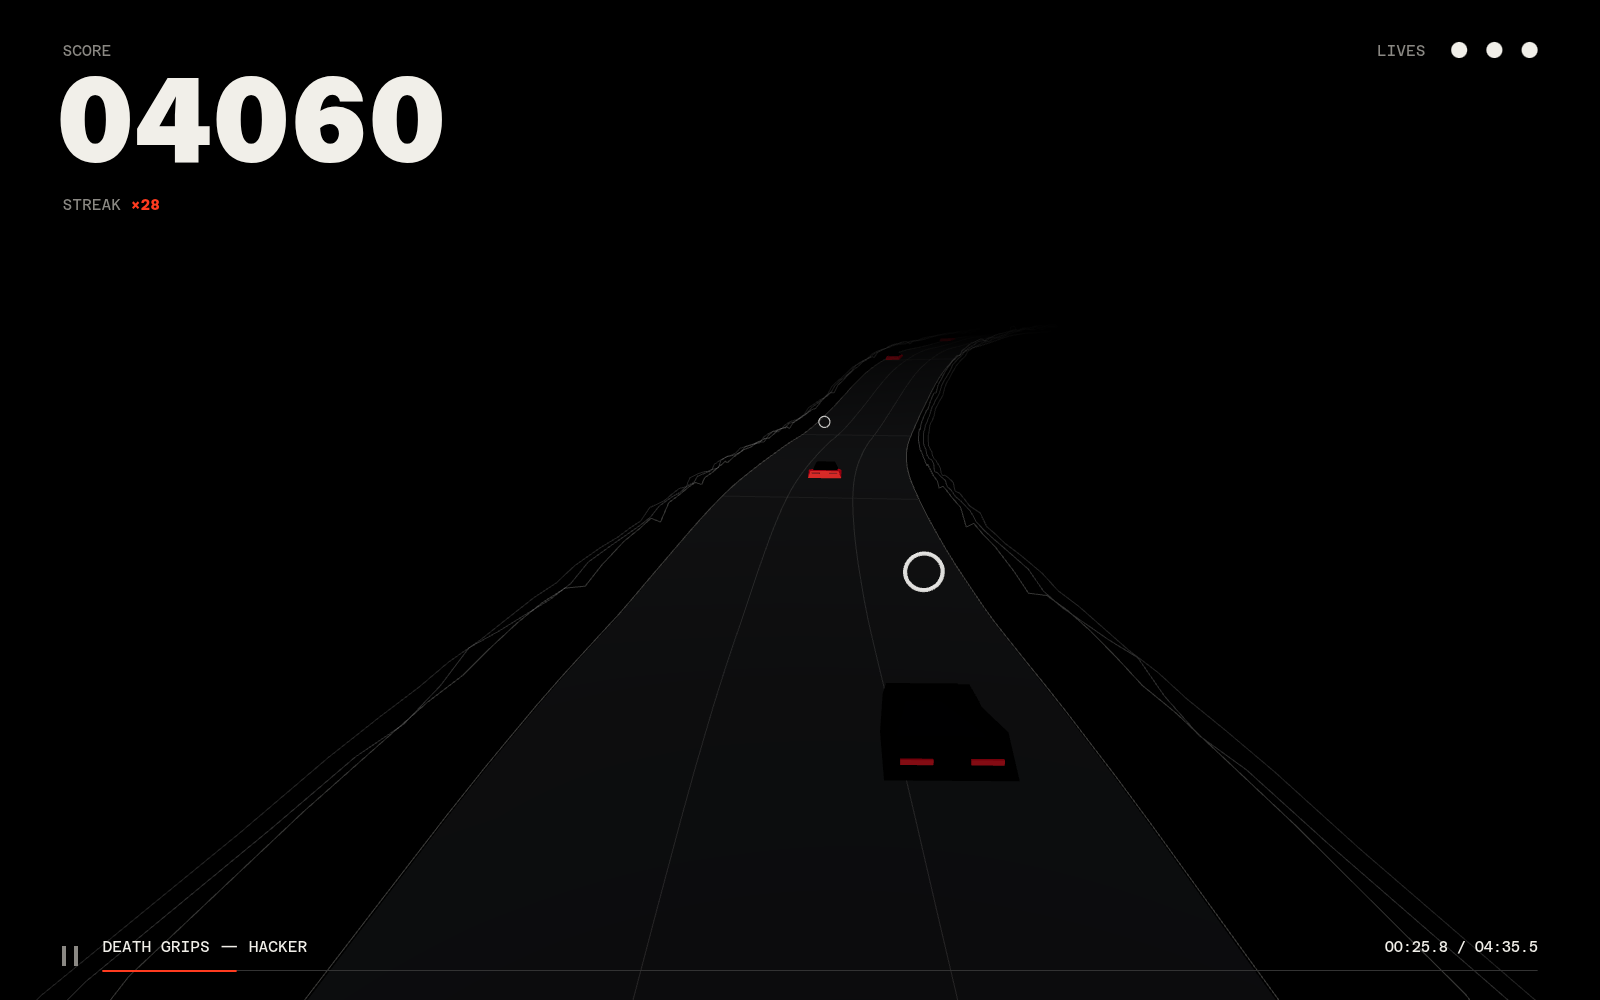
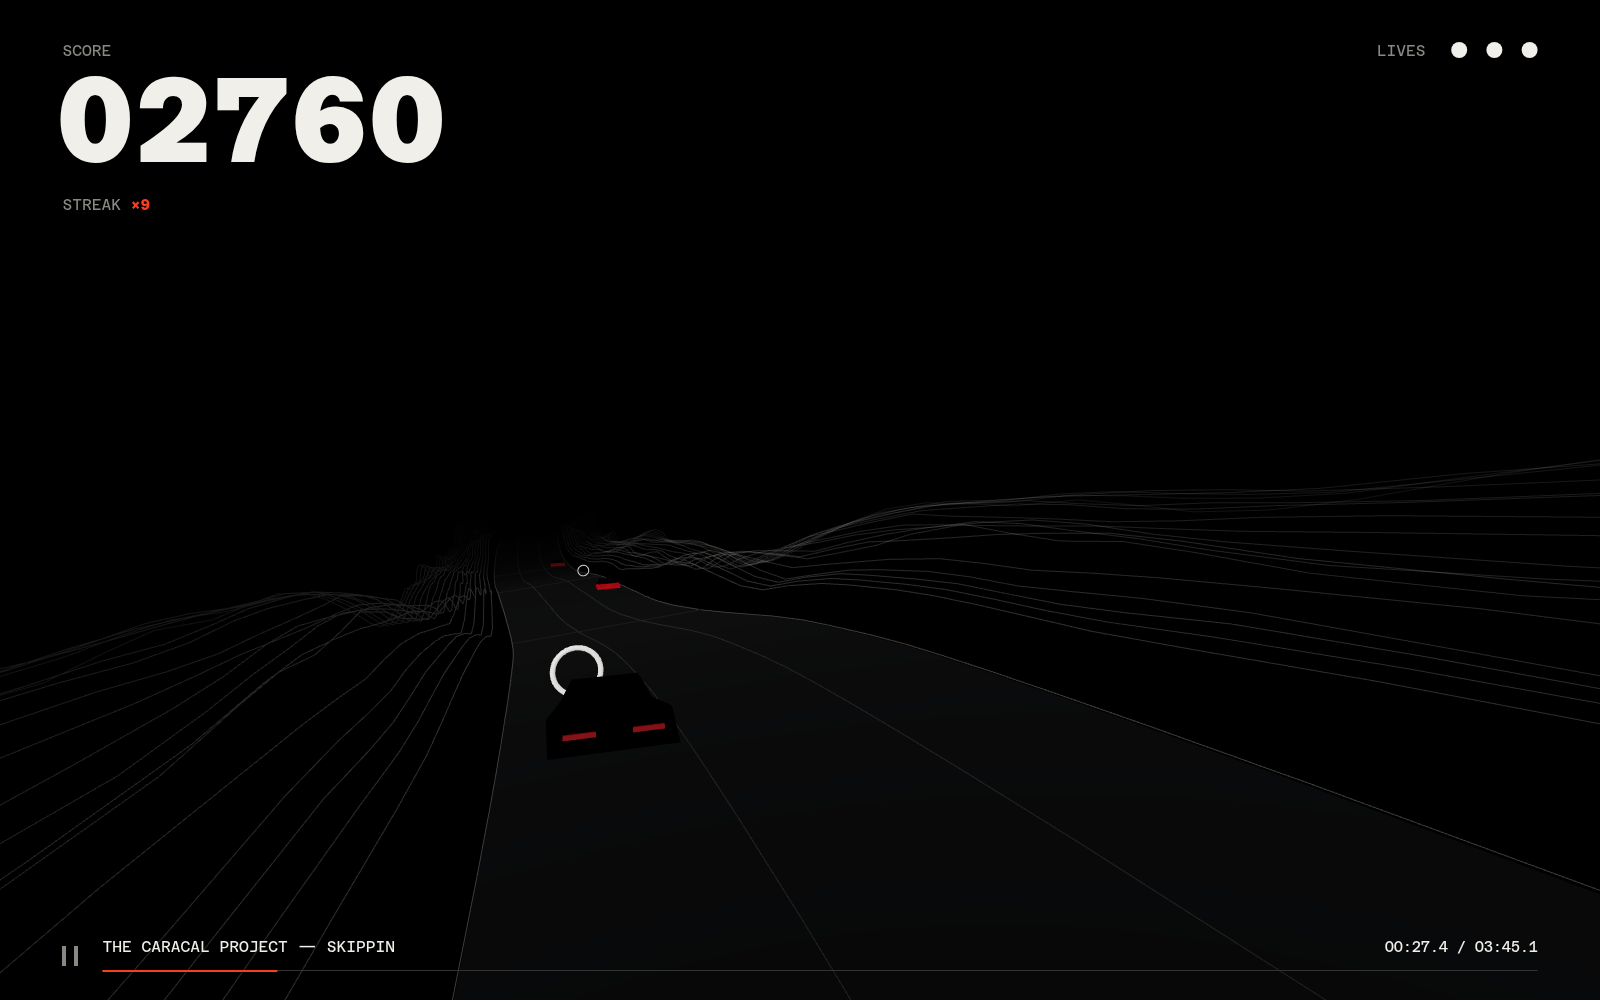
Improve ride relief and spectral mountains

diff --git a/src/modules/ride/draw/waves.ts b/src/modules/ride/draw/waves.ts
@@ -6,31 +6,46 @@ import type { Song } from "../song";
 import { at, forward, side, UP } from "./path";
 import { WIDTH } from "./road";
 
-function value(song: Song, frame: number, band: number) {
-	const from = frame * POINTS + band * 24;
+const LAYERS = 18;
+
+function value(song: Song, frame: number, layer: number) {
+	const f = Math.max(0, Math.min(song.ridges.length / POINTS - 1, frame));
+	const from = f * POINTS + Math.floor((layer * POINTS) / LAYERS);
+	const to = f * POINTS + Math.floor(((layer + 1) * POINTS) / LAYERS);
 	let sum = 0;
-	for (let i = 0; i < 24; i++) sum += song.ridges[from + i] ?? 0;
-	return sum / 24;
+	for (let i = from; i < to; i++) sum += song.ridges[i] ?? 0;
+	return sum / (to - from);
+}
+
+function energy(song: Song, frame: number, layer: number) {
+	return (
+		(value(song, frame - 1, layer) +
+			2 * value(song, frame, layer) +
+			value(song, frame + 1, layer)) /
+		4
+	);
 }
 
 export function waves(song: Song) {
 	const group = new Group();
 	[-1, 1].forEach((direction) => {
-		[0, 1, 2].forEach((band) => {
+		for (let layer = 0; layer < LAYERS; layer++) {
 			const points = Array.from({ length: song.road.length / 3 }, (_, frame) => {
 				const heading = forward(song.road, frame);
-				const offset = direction * (WIDTH / 2 + 0.8 + band * 0.35);
+				const offset = direction * (WIDTH / 2 + 0.65 + layer * 0.32);
+				const height =
+					0.08 + layer * 0.075 + energy(song, frame, layer) * (2.7 + layer * 0.1);
 				return at(song.road, frame)
 					.addScaledVector(side(heading), offset)
-					.addScaledVector(UP, 0.18 + value(song, frame, band) * 1.1);
+					.addScaledVector(UP, height);
 			});
 			const material = new LineBasicMaterial({
-				color: 0xf1efe9,
+				color: 0xd8d5ce,
 				transparent: true,
-				opacity: 0.24 - band * 0.04,
+				opacity: 0.22 * (1 - (layer / LAYERS) * 0.65),
 			});
 			group.add(new Line(new BufferGeometry().setFromPoints(points), material));
-		});
+		}
 	});
 	return group;
 }

diff --git a/src/modules/ride/utils/road.ts b/src/modules/ride/utils/road.ts
@@ -36,7 +36,7 @@ export function road({ intensity, track }: Source) {
 			const slope = slopes[ring] ?? 0;
 			const heading = Math.sin(distance / 105) * 0.42 + Math.sin(distance / 43) * 0.08;
 			x += Math.sin(heading) * step;
-			y -= Math.sin(slope) * step * RELIEF;
+			y += Math.sin(slope) * step * RELIEF;
 		}
 		centers.set([x, y, -distance], frame * 3);
 	}

diff --git a/src/modules/ride/draw/road.ts b/src/modules/ride/draw/road.ts
@@ -65,7 +65,7 @@ function beats(song: Song) {
 export function road(song: Song) {
 	const group = new Group();
 	const material = new MeshStandardMaterial({
-		color: 0x17181b,
+		color: 0x121316,
 		roughness: 0.92,
 		metalness: 0,
 		side: DoubleSide,

diff --git a/README.md b/README.md
@@ -1,6 +1,6 @@
 # waves
 
-![A 3D ride on Death Grips — Hacker: white pickups along a curving, hilly road flanked by spectral waves, with the player car, score and lives on screen](docs/screenshot.png)
+![A 3D ride on The Caracal Project — Skippin: white pickups along a curving, hilly road flanked by spectral waves, with the player car, score and lives on screen](docs/screenshot.png)
 
 Drop in a song and ride it: an AudioSurf-like game in the browser. The track is built from the music itself: the 3D road climbs and dives with its intensity, spectral waves flank the lanes, louder passages speed you up, and kicks add a surge. Hits land on significant musical swells, the strongest white to catch, the rest red to dodge. Three red hits and the song fades into a muffled background.
 
